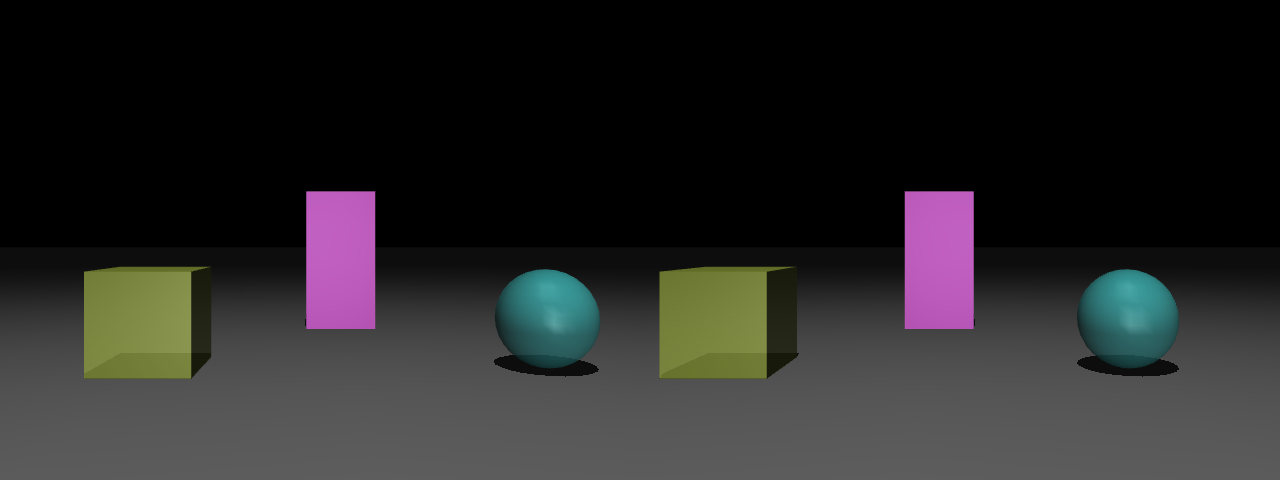
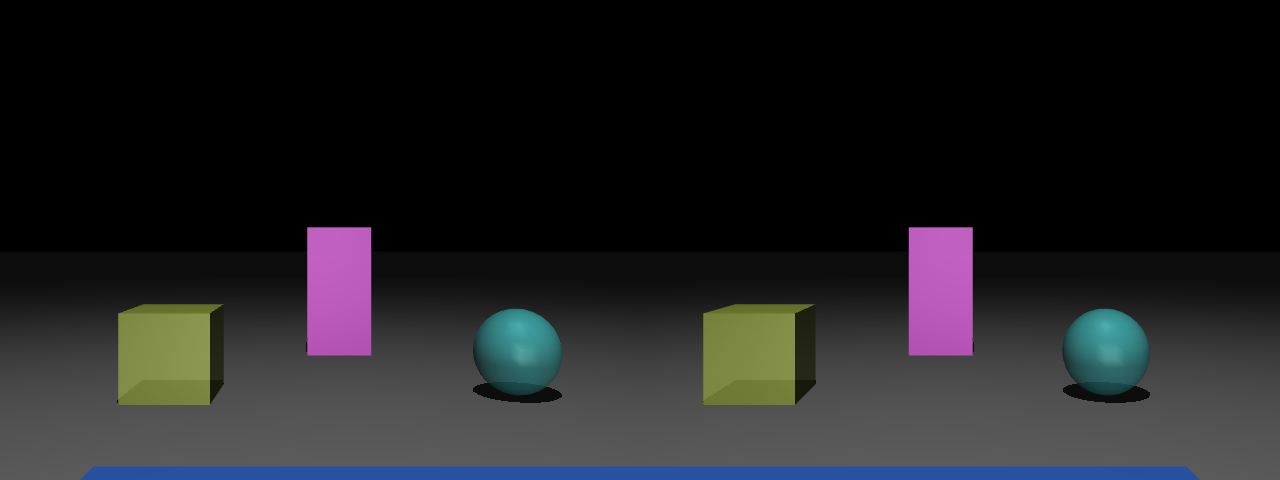
Physics stabilization, hardware update, docs update

diff --git a/scripts/teleop.py b/scripts/teleop.py
@@ -3,7 +3,7 @@ import time
 import mujoco
 import mujoco.viewer
 
-WHEEL_RADIUS = 0.035
+WHEEL_RADIUS = 0.045
 TRACK_WIDTH = 0.21
 SPEED_STEP = 0.3      # m/s per keypress
 TURN_STEP = 1.0       # rad/s per keypress

diff --git a/tests/test_model.py b/tests/test_model.py
@@ -20,7 +20,7 @@ def test_rests_level(world_model, world_data):
 
 def test_drives_straight(world_model, world_data):
   settle(world_model, world_data)
-  world_data.ctrl[:] = 35.0
+  world_data.ctrl[:] = 21.0
   settle(world_model, world_data, seconds=5.0)
   assert world_data.qpos[0] > 2.0           # actually went somewhere
   assert abs(world_data.qpos[1]) < 0.05     # without veering

diff --git a/docs/SimNotes.md b/docs/SimNotes.md
@@ -1,0 +1,50 @@
+# Simulation Notes
+
+Hard-won MuJoCo lessons from building PluggyBot. Each entry exists because something broke without it. Keep this file growing — future-you (and the Onshape import) will thank present-you.
+
+## Physics modeling rules
+
+### Wheel joints need `armature`
+A bare 50 g wheel has ~3×10⁻⁵ kg·m² of rotational inertia; a motor torque applied to that overshoots any velocity target within a single 2 ms timestep, and the servo then chatters at the timestep frequency — the robot "vibrates and bounces" instead of driving. `armature` models the motor rotor's inertia *reflected through the gearbox*, which scales with gear-ratio²:
+
+> armature ≈ rotor inertia (~5×10⁻⁶ kg·m²) × ratio² → **0.005 at 30:1, 0.012 at 50:1**
+
+### Wheel joints need `damping` (and it's physically real)
+Gearboxes eat torque: Pololu lists ~65 % efficiency for the 37D 50:1, so ~30–35 % of torque is lost to friction. `damping="0.05"` on the wheel joints models this — and it is also *load-bearing for stability*: the velocity servo regulates **joint** velocity, which includes chassis pitch rate, creating positive feedback that pumps energy into chassis-pitch oscillation. Joint damping dissipates it. Don't exceed honest magnitudes (0.2+ would mean a gearbox that eats the entire stall torque — unphysical, and it makes the robot crawl).
+
+### Use `integrator="implicitfast"`
+MuJoCo's default explicit Euler integrator adds energy to velocity-dependent forces (velocity actuators, joint damping) — the exact ingredients of a wheeled robot. `<option integrator="implicitfast"/>` is standard practice for wheeled/actuated models (most Menagerie models use it).
+
+### Tires need compliance: `solref="0.05 1"` on wheel geoms
+With default contact stiffness the wheels are rigid hoops and the robot micro-hops at cruise (measurably airborne ~20 % of the time). Each landing delivers a friction impulse whose pitch moment scales with **wheel radius** — at r = 0.035 the kicks were sub-threshold; at r = 0.045 (the real 90 mm wheels) they resonated with the chassis pitch mode and flipped the robot onto its tail at cruise. Softer, damped tire contact (`solref="0.05 1"` ≈ rubber squish) breaks the resonance. Note: `"0.02 1"` is the *default* — setting that is a no-op (ask me how I know).
+
+### Mass goes over the drive axle
+A 120 g head cantilevered 16 cm ahead of the axle destabilized launches (wheelie → riding the rear chassis corner at ~30°); the identical mass directly above the axle is benign. Established empirically by bisection: it's mass × position, not mass. Same principle as Roomba/TurtleBot battery placement. Corollary discovered later: **height is also a lever** — the head at z = 0.135 destabilizes cruise even with all other fixes in place (and no amount of command ramping saves it); at z = 0.095 everything passes. A camera mast requires a base redesign (wider, heavier — the Hello Robot Stretch proportions), not just a taller neck. Deferred to the milestone-6 arm/lift work.
+
+### Motor sizing: torque-to-weight matters
+The original 30:1/1.4 N·m spec on a 1.1 kg robot demands ~40 N of thrust per wheel against ~3 N of available traction — permanent wheelspin at launch, and enough reaction torque to wheelie. Real robots this size are torque-limited by traction, not by motor. When behavior looks violent, check whether the actuator could physically exist in that weight class.
+
+## Known artifacts (accepted for now)
+
+- **In-place turns "walk"** — the turn center sits near the body origin rather than the axle midpoint (axle midpoint orbits ~10–17 cm during a spin). Cause: cylinder wheels contact the ground at their two rim edges, which scrub during yaw. Remedy when it matters (odometry milestone): ellipsoid collision geoms for the wheels (`type="ellipsoid" size="r w r"`), which cut the walk ~3×. The regression test intentionally asserts on body-origin drift, which stays small.
+- **Micro-hopping** — brief airborne moments at cruise persist even in stable configs. Harmless since the tire-compliance fix decoupled it from pitch; revisit if odometry noise looks unphysical.
+
+## Test & world hygiene
+
+- **`models/world.xml` is bare** (floor + light + robot): physics tests run here. **`models/playground.xml`** adds scenery via `<include file="world.xml"/>`: teleop and camera scripts run here. Scenery once parked a box in the drive-test lane; separately, copying the floor into the playground doubled every wheel contact (the include already provides it — a "repeated name" MJCF error means *delete* the duplicate, not rename it).
+- Every debugged failure becomes a pytest assertion (rests level, drives straight, no wheelie, turns in place, stereo parallax exists). The suite has already caught two real regressions.
+
+## Conventions & gotchas
+
+- MJCF `size` values are **half**-extents; `pos` is relative to the parent body frame.
+- Cameras look down their own **−z**, image-up is +y. Forward-looking camera on a +x-facing body: `xyaxes="0 -1 0 0 0 1"`.
+- Pitch extraction from the freejoint quaternion `(w,x,y,z)`: `asin(2·(w·y − z·x))`, **positive = nose down** with x-forward/z-up.
+- A body with no joint is welded to its parent; a `<geom>` with `contype="0" conaffinity="0"` is visual-only (wheel spokes, future pretty meshes).
+- Velocity actuators: `ctrlrange` = ± no-load speed (rad/s), `forcerange` = ± stall torque (N·m), both straight off the motor datasheet; `kv` is a tuning gain, not a datasheet number.
+
+## Debugging workflow that worked
+
+1. Reproduce headlessly with printed telemetry (pose, wheel ω, contact list, `ncon`) — vibes don't bisect.
+2. **Render a filmstrip** (offscreen `Renderer`, tracking camera, 12 tiled frames) when numbers confuse — "it's standing on its tail" was invisible in scalars.
+3. Bisect one variable at a time; the surprising answer (wheel *radius*) was found only after mass, torque, gain, damping, and timestep all alibied out.
+4. Assert that programmatic XML patches actually applied (`assert count == 2`) — a silent no-op replacement once produced identical "before/after" results and nearly a wrong conclusion.

diff --git a/docs/PluggyPlan.md b/docs/PluggyPlan.md
@@ -9,7 +9,7 @@ The core idea: a small wheeled robot with stereo vision that explores its enviro
 ## Design Philosophy
 
 - **Simulation-first, hardware-honest.** Everything runs in MuJoCo, but component parameters (motor torque curves, camera baseline and FOV, masses) are modeled on real, purchasable parts, keeping an eventual sim-to-real transfer plausible.
-- **Rigid plug, not a cable.** Manipulating a deformable wire plug is one of the hardest problems in robotics. Pluggy sidesteps it: the plug is fixed to the end of a rigid arm. Docking is still a genuinely hard contact-rich alignment task - but a tractable one.
+- **Rigid plug, not a cable.** Manipulating a deformable wire plug is one of the hardest problems in robotics. PluggyBot sidesteps it: the plug is fixed to the end of a rigid arm. Docking is still a genuinely hard contact-rich alignment task - but a tractable one.
 - **Decompose, don't end-to-end.** Rather than one giant RL policy from pixels to behavior, each capability uses the cheapest adequate technique: supervised learning where labels are free (simulation gives them away), classical robotics where the problem is solved, and RL where it actually earns its keep.
 
 ## Core Goals
@@ -19,7 +19,7 @@ The core idea: a small wheeled robot with stereo vision that explores its enviro
 3. **Spatial memory & exploration** - an internal map of the environment, plus a drive to explore: validating what it remembers and expanding into the unknown (active SLAM / frontier exploration).
 4. **Outlet recognition** - visually detecting wall outlets with a CNN trained on domain-randomized synthetic images from the simulator.
 5. **Self-docking** - plugging into a detected outlet using the rigid arm.
-6. **Battery-driven behavior** - a simulated battery that drains with motor use; when low, Pluggy seeks an outlet and charges. This closes the loop that gives the project its name.
+6. **Battery-driven behavior** - a simulated battery that drains with motor use; when low, PluggyBot seeks an outlet and charges. This closes the loop that gives the project its name.
 
 ## Stretch Goals
 
@@ -32,22 +32,26 @@ The core idea: a small wheeled robot with stereo vision that explores its enviro
 |---|---|
 | Outlet detection | Supervised CNN, fine-tuned on synthetic labeled images rendered from the sim with domain randomization |
 | Depth perception | Ground-truth sim depth first; swap in real stereo matching (e.g. OpenCV SGBM or a learned stereo net) later |
-| Odometry | Supervised regression: predict pose change from wheel encoder + IMU history |
+| Odometry | Classical dead reckoning from wheel encoders + IMU (EKF fusion); learned regression demoted to a later experiment |
 | Mapping & exploration | Occupancy grid + frontier-based exploration (classical baseline); learned/curiosity-driven exploration as a later experiment |
-| Docking | RL policy (or scripted visual servoing baseline) over relative outlet pose + arm state; contact-rich, dense-rewardable |
+| Docking | RL policy (or scripted visual servoing baseline) over relative outlet pose + arm state; contact-rich, dense-rewardable. Arm architecture inspired by Hello Robot Stretch: the base owns x/yaw, a prismatic lift owns z, the arm owns reach — three nearly-independent 1D alignment problems. Caveat from sim experience: a mast raises the center of mass and pitch inertia, so the lift design must come with a wider/heavier base (see SimNotes.md) |
 | Behavior arbitration | Finite-state machine over the modules, driven by battery level and map state |
 
 ## Milestones
 
-1. Teleoperable differential-drive base in MuJoCo
-2. Stereo camera pair rendering from the robot
-3. Learned odometry from wheel/IMU data
+1. ✅ Teleoperable differential-drive base in MuJoCo *(July 2026)*
+2. ✅ Stereo camera pair rendering from the robot *(July 2026)*
+3. Classical odometry from wheel encoders + IMU (dead reckoning + EKF)
 4. Occupancy mapping + frontier exploration
 5. Outlet detector trained on synthetic data
 6. Docking controller (scripted baseline → RL)
 7. Battery model + state machine tying the full loop together: explore → detect → approach → dock → charge
 
 Each milestone is independently runnable and demoable.
+
+**Parallel de-risk track** (can start anytime): a standalone Schuko plug/socket contact prototype — no robot, just a scripted insertion in its own MJCF — to validate contact modeling before milestone 6 depends on it. The Schuko recess is a natural alignment funnel; find out early how much of one.
+
+**Later experiments** (off the critical path): learned odometry (competing against the classical baseline), curiosity-driven exploration.
 
 ## Tooling
 
@@ -60,16 +64,15 @@ Each milestone is independently runnable and demoable.
 
 ```
 pluggy/
-├── models/          # MJCF robot & environment definitions
-├── envs/            # Gymnasium environment wrappers
-├── perception/      # Outlet detector, stereo depth, dataset generation
-├── odometry/        # Wheel/IMU odometry model & training
-├── mapping/         # Occupancy grid, frontier exploration
-├── docking/         # Docking controllers & RL training
-├── behavior/        # Battery model, state machine
-└── scripts/         # Teleop, visualization, evaluation
+├── models/            # MJCF: pluggybot.xml, world.xml (bare, used by tests), playground.xml (scenery)
+├── src/pluggybot/     # perception/, odometry/, mapping/, docking/, behavior/
+├── scripts/           # teleop.py, view.py, stereo_snapshot.py
+├── tests/             # physics + camera regression tests (pytest)
+└── docs/              # this plan, Parts.md, SimNotes.md
 ```
+
+(`envs/` for Gymnasium wrappers gets added when RL work starts. The world/playground split is deliberate: tests run in the bare world, humans drive in the playground — scenery in the test lane once broke the drive test.)
 
 ## Status
 
-🚧 Early design phase. Currently building the base robot model and simulation environment.
+🚧 Milestones 1–2 complete (July 2026): teleoperable diff-drive base with a physics regression suite, stereo pair rendering with a parallax test. Hardware is anchored to real EU-purchasable parts in [Parts.md](Parts.md) (50:1 gearmotors w/ encoders, 90 mm wheels, 2× Pi Camera Module 3); hard-won simulation lessons live in [SimNotes.md](SimNotes.md). Next: classical odometry (milestone 3) and the plug/socket contact spike.

diff --git a/docs/Parts.md b/docs/Parts.md
@@ -10,7 +10,7 @@ This document provides specs + model info for parts used in this project.
 
 ## Drive system
 
-### Motors (2×) — primary recommendation
+### Motors — runner-up: 30:1 (not selected)
 
 **Pololu 30:1 Metal Gearmotor 37Dx68L mm 12V with 64 CPR Encoder (Helical Pinion)** — Pololu #4752
 
@@ -28,15 +28,15 @@ This document provides specs + model info for parts used in this project.
 | Output shaft | 16 mm long, **6 mm D-shaft** | wheel/hub compatibility (see below) |
 | Dimensions | ⌀37 × 68 mm (excl. shaft) | motor geom size |
 
-This is essentially the motor the sim was modeled on — no sim changes required for the actuator.
+Matches the original sim numbers exactly, but passed over in favor of the 50:1's docking push force — speed is a low priority for this robot.
 
-### Motors — alternative
+### Motors (2×) — ✅ CHOSEN: 50:1 (July 2026)
 
 **Pololu 50:1 Metal Gearmotor 37Dx70L mm 12V with 64 CPR Encoder (Helical Pinion)** — Pololu #4753
 
 - Source: [Eckstein-shop.de](https://eckstein-shop.de/Pololu-501-Metal-Gearmotor-37Dx70L-mm-12V-with-64CPR-EncoderHelical-Pinion-EN) — **€84,43 each**. Datasheet: [pololu.com/product/4753](https://www.pololu.com/product/4753)
 - 50:1, **200 rpm** no-load (= 20.9 rad/s), **21 kg·cm = 2.06 N·m** stall, 5.5 A stall, 3200 CPR at output, 205 g, same 6 mm D-shaft.
-- ⚠ If chosen: `ctrlrange` → 20.9 rad/s, `forcerange` → 2.06 N·m. Slower but more torque headroom (relevant later for docking push force).
+- ✅ **Applied to sim (July 2026):** `ctrlrange` ±21 rad/s, `forcerange` ±2.06 N·m, wheel-joint `armature="0.012"` (reflected rotor inertia ∝ gear-ratio², up from 0.005 at 30:1) and `damping="0.05"` (the 50:1 gearbox's ~30–35 % torque losses, per Pololu's ~65 % efficiency figure). The damping term also turned out to be load-bearing for sim stability — see SimNotes.md.
 
 ### Wheels (2×)
 
@@ -48,7 +48,7 @@ This is essentially the motor the sim was modeled on — no sim changes required
 | **Pololu Universal Aluminum Mounting Hub, 6 mm shaft, M3 holes (2-pack)** (#1999) | [Eckstein-shop.de](https://eckstein-shop.de/PololuUniversalAluminumMountingHubfor6mmShaft2CM3Holes2-PackEN) | **€11,95 / 2-pack** | Set-screw hub for the 6 mm D-shaft; wheel bolts to hub |
 | Alt: Pololu Multi-Hub Wheel 80×10 mm (2-pack) | [Eckstein-shop.de](https://eckstein-shop.de/Pololu-Multi-Hub-Wheel-w-Inserts-for-3mm-and-4mm-Shafts-8010mm-Black-2-pack-EN) | €14,20 / 2-pack | Inserts are 3/4 mm only — **TBD: verify it accepts the 6 mm universal hub** before buying |
 
-⚠ **Sim impact (wheel radius):** sim assumes r = 0.035 m (70 mm ⌀). The 90 mm wheel is **r = 0.045 m** → update wheel `geom` size, and note top speed becomes 34.6 rad/s × 0.045 = **1.56 m/s** (vs 1.21 m/s at r = 0.035). Effective push force at stall drops to 1.37/0.045 ≈ 30 N per wheel — still far more than a 1.1–1.5 kg robot needs. If 70 mm ⌀ is a hard requirement, a non-Pololu 65–70 mm wheel with a 6 mm bore hub would be needed — TBD (none verified in EU stock yet).
+✅ **Decided + applied to sim (July 2026):** 90×10 mm wheels accepted → wheel geom r = 0.045 m, half-width 0.005. With the chosen 50:1 motor, top speed is 20.9 rad/s × 0.045 ≈ **0.94 m/s** and stall push force ≈ 2.06/0.045 ≈ 46 N per wheel — ample. Note the larger radius destabilized the sim's pitch dynamics until tire compliance (`solref="0.05 1"`) and gearbox damping were modeled — see SimNotes.md.
 
 ---
 
@@ -66,7 +66,7 @@ This is essentially the motor the sim was modeled on — no sim changes required
 
 Two viable routes — see Open decisions.
 
-### Option A: 2× Raspberry Pi Camera Module 3 (DIY stereo)
+### ✅ CHOSEN — Option A: 2× Raspberry Pi Camera Module 3 (DIY stereo, July 2026)
 
 - Source: [Welectron](https://www.welectron.com/Official-Raspberry-Pi-Camera-Module-3) — **€25,50 each** (≈ €51 for the pair); also [BerryBase](https://www.berrybase.de/en/raspberry-pi-camera-module-3-12mp). Specs: [raspberrypi.com](https://www.raspberrypi.com/documentation/accessories/camera.html)
 
@@ -81,7 +81,7 @@ Two viable routes — see Open decisions.
 
 - Mounting at **60 mm baseline**: modules are 25 mm wide, so 60 mm center-to-center leaves ~35 mm clear between them — fine. Needs a rigid printed/laser-cut bracket (stereo calibration dies if the baseline flexes) — no off-the-shelf 60 mm stereo mount; plan a custom bracket. Note: Pi 5 has two CSI ports, so both cameras connect natively, but frame capture is not hardware-synchronized (software sync is usually acceptable at robot speeds ≤1.5 m/s).
 
-### Option B: Luxonis OAK-D Lite (integrated stereo + depth ASIC)
+### Option B (not selected): Luxonis OAK-D Lite (integrated stereo + depth ASIC)
 
 - Source: [MYBOTSHOP.DE](https://www.mybotshop.de/Luxonis-DepthAI-OAK-D-Lite_1) — **€192,95**; [Reichelt](https://www.reichelt.com/de/en/shop/product/luxonis_depthai_oak-d_lite_fixed-focus-324637) — €199,40 (fixed-focus **backordered until ~17 Aug 2026**); also [Botland](https://botland.store/modules-smart-cameras/20955-oak-d-lite.html). Specs: [docs.luxonis.com](https://docs.luxonis.com/hardware/products/OAK-D%20Lite)
 
@@ -106,7 +106,7 @@ Two viable routes — see Open decisions.
 
 ## Open decisions
 
-1. **Stereo: 2× Cam Module 3 (~€51 + custom bracket) vs OAK-D Lite (~€193).** DIY pair: cheaper, exact 60 mm baseline, 41° fovy maps directly into MJCF, but you write/tune the stereo pipeline on the Pi 5 and cameras aren't HW-synced. OAK-D Lite: depth computed on-device out of the box, but fixes baseline at 75 mm (sim change), 35 cm min depth complicates close-in docking, and it's ~4× the price with spotty stock (Reichelt backorder).
-2. **Wheel diameter: accept 90 mm (verified Pololu path, sim r → 0.045) vs hunt for a 65–70 mm wheel with 6 mm bore** (keeps sim r = 0.035; nothing verified in EU stock yet).
-3. **Gear ratio: 30:1 (matches current sim exactly) vs 50:1 (more docking push force, 40 % slower).** Cheap to defer — same price, same mounting, same driver.
-4. Chassis material/supplier (Misumi/igus vs laser-cut) — blocked on wheel + bracket choice.
+1. ~~Stereo camera~~ → **Decided (July 2026): 2× Camera Module 3** with a custom rigid 60 mm bracket. Rationale: 4× cheaper, exact baseline control, 41° fovy (applied to sim), and the OAK-D Lite's ~35 cm minimum depth is a bad fit for terminal docking approach.
+2. ~~Wheel diameter~~ → **Decided (July 2026): 90×10 mm** (sim r = 0.045 applied).
+3. ~~Gear ratio~~ → **Decided (July 2026): 50:1 (#4753)** — docking push force over top speed (sim updated; see Motors section).
+4. Chassis material/supplier (Misumi/igus vs laser-cut) — blocked on motor-bracket choice.